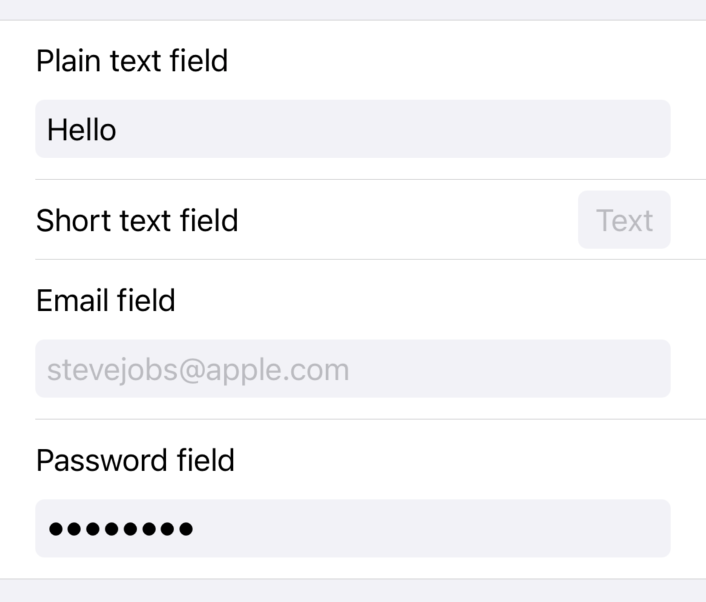
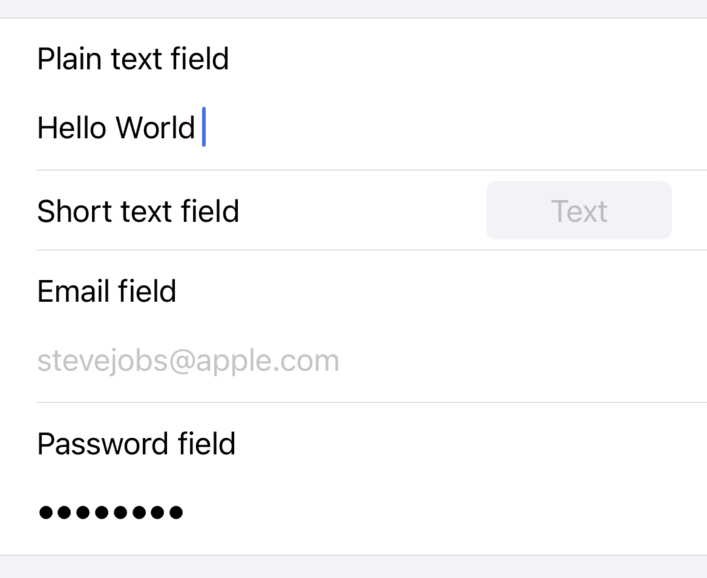
Update docs

diff --git a/lib/Middleware/docs/markdown/configuration.md b/lib/Middleware/docs/markdown/configuration.md
@@ -33,6 +33,38 @@ To allow for existing widgets using older systems to function correctly, your wi
 
 The `options` key is where you specify configuration for your widget, that is then shown to the user when applying your widget. This is designed to be flexible - you can even specify nested pages of settings for organisation if you need to.
 
+Here's an idea of what you can build:
+
+![All options](everything.gif)
+
+<hr />
+
+#### **Example and Local Development**
+
+An example widget that shows how to use every possible field, and access them in code, **[is available here](https://incendo.ws/files/config-example-widget.zip)**.
+
+**As described in [Emulation](../emulation.html), widget configuration can be used during development off-device**. Simply update the appropriate section of the script provided on that page with your configuration options, then your code will be able to pick it up.
+
+<hr />
+
+#### **Basics**
+
+Every row in widget settings you display to the user needs to have two properties:
+
+| Property | Usage                        |
+|----------|------------------------------|
+| type     | The type of the row.         |
+| text     | Text to display for the row. |
+
+All rows that set values into your code have two more common properties:
+
+| Property | Usage                                                                                                 |
+|----------|-------------------------------------------------------------------------------------------------------|
+| key      | The variable name in code that this row should map to. For example, setting `key` to `test` will be accessible as `config.test` in your widget code |
+| default  | A default value that is given to your code for the `key` field if the user doesn't fill it in |
+
+All possible row types below have an associated example with them. The usage in code sections all use the `const` JavaScript keyword. If you've not encountered this before, think of it as a `var` that cannot be modified.
+
 A simple example of a widget that has one toggle switch for a setting:
 
 ```json
@@ -62,30 +94,6 @@ if (config.switchOne) {
 ```
 
 Notice how the `key` property of the switch matches up to the code.
-
-#### **Example and Local Development**
-
-An example widget that shows how to use every possible field, and access them in code, [is available here](https://incendo.ws/files/config-example-widget.zip).
-
-As described in [Emulation](../emulation.html), widget configuration can be used during development off-device. Simply update the appropriate section of the script provided on that page with your configuration options, then your code will be able to pick it up.
-
-#### **Basics**
-
-Every row in widget settings you display to the user needs to have two properties:
-
-| Property | Usage                        |
-|----------|------------------------------|
-| type     | The type of the row.         |
-| text     | Text to display for the row. |
-
-All rows that set values into your code have two more common properties:
-
-| Property | Usage                                                                                                 |
-|----------|-------------------------------------------------------------------------------------------------------|
-| key      | The variable name in code that this row should map to. For example, setting `key` to `test` will be accessible as `config.test` in your widget code |
-| default  | A default value that is given to your code for the `key` field if the user doesn't fill it in |
-
-All possible row types below have an associated example with them. The usage in code sections all use the `const` JavaScript keyword. If you've not encountered this before, think of it as a `var` that cannot be modified.
 
 <hr />
 
@@ -168,6 +176,39 @@ The `comment` row is a way to add informative text below a row. This helps users
 ![Comment example](comment.png)
 
 *An additional switch row is shown here to give some context of how it'll look in real-world usage.*
+
+<hr />
+
+#### **`link`**
+
+The `link` row is a way to add links to websites and apps into your widget settings. This is useful to, for example, link to your social media accounts. Alternatively, you could link to a bug tracking page for users to record any issues with your widget.
+
+**Properties:**
+
+| Property | Required | Usage                        |
+|----------|----------|------------------------------|
+| type     |   yes    | Set to `link`                |
+| text     |   yes    | The text describing the link |
+| url      |   yes    | The URL the link points to   |
+
+**Example:**
+
+```json
+{
+    "name": "Config Example",
+    "options": [
+        {
+            "type": "link",
+            "text": "Link to Google",
+            "url": "https://google.com"
+        }
+    ]
+}
+```
+
+**Screenshot:**
+
+![Link example](link.png)
 
 <hr />
 
@@ -329,7 +370,7 @@ Auto-correct is disabled on the keyboard, and the first character will be capita
         {
             "type": "text",
             "text": "Plain text field",
-            "default": "Hello",
+            "default": "Hello World",
             "key": "textPlain",
             "placeholder": "Example"
         },
@@ -646,12 +687,10 @@ This example has an extra text input field above the `page` row, and a few rows 
 
 ### Legacy Widget Configuration
 
-Widget preferences are currently using existing legacy systems, meaning that a new preferences API will become available as part of the new `config.json` system. This will be in beta 8.
-
-Right now, the following preference systems are respected in the Settings app:
+Existing legacy systems for widget settings are supported for widgets that need them. These are as follows:
 
 - `Options.plist`
-    - The widget must either be installed in the `iWidgets` folder, or in any of the [Install Locations](layout.html)
+    - The widget must be installed in the `iWidgets` folder
 - `config.js` (case in-sensitive)
     - Will be loaded as a fallback if `Options.plist` cannot be found
 
